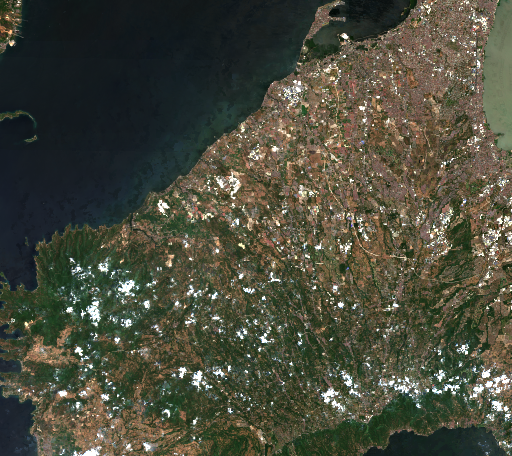
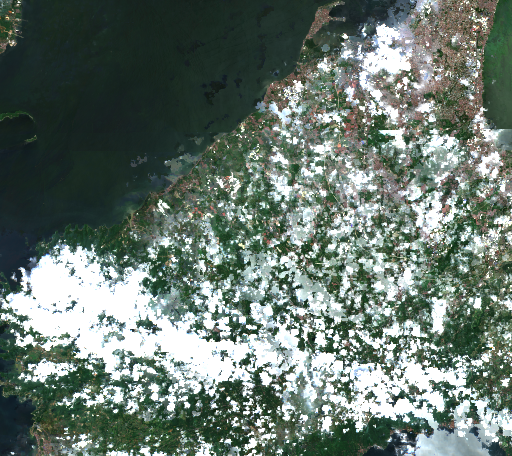
dataset extraction

diff --git a/backend/export_images.py b/backend/export_images.py
@@ -1,0 +1,43 @@
+import os
+import numpy as np
+from PIL import Image
+
+def convert_npy_to_png(patches_dir="data/cvip_output/patches", output_dir="data/cvip_output/patches_png"):
+    if not os.path.exists(patches_dir):
+        print(f"Error: The directory {patches_dir} does not exist.")
+        print("Please run `python gee_extraction.py` first to generate the dataset patches.")
+        return
+
+    os.makedirs(output_dir, exist_ok=True)
+    
+    npy_files = [f for f in os.listdir(patches_dir) if f.endswith(".npy")]
+    if not npy_files:
+        print(f"No .npy files found in {patches_dir}.")
+        print("Please run `python gee_extraction.py` first to generate the dataset patches.")
+        return
+
+    print(f"Found {len(npy_files)} patches. Converting to PNG...")
+    
+    for f in npy_files:
+        npy_path = os.path.join(patches_dir, f)
+        patch = np.load(npy_path)
+        
+        # patch has shape (64, 64, 4) with bands [Blue, Green, Red, NIR]
+        # Sentinel-2 raw reflectance is typically 0-10000
+        # Extract RGB (indices 2, 1, 0)
+        rgb_patch = patch[:, :, 2::-1]
+        
+        # Scale for visualization (clipping at 0.3 reflectance for brightness)
+        # The values are already scaled to roughly 0-1 range by GEE collection properties
+        rgb_scaled = np.clip(rgb_patch / 0.3, 0, 1) * 255.0
+        
+        img = Image.fromarray(rgb_scaled.astype(np.uint8))
+        
+        png_filename = f.replace(".npy", ".png")
+        png_path = os.path.join(output_dir, png_filename)
+        img.save(png_path)
+        
+    print(f"Success! {len(npy_files)} images saved to {output_dir}")
+
+if __name__ == "__main__":
+    convert_npy_to_png()

diff --git a/backend/download_all_data.py b/backend/download_all_data.py
@@ -1,0 +1,44 @@
+import os
+from datetime import datetime, timedelta
+from gee_extraction import run_cvip_pipeline
+
+def run_mass_download():
+    print("============================================================")
+    print("  MASS DATASET DOWNLOAD (Past 24 Months)")
+    print("============================================================")
+    
+    import gee_extraction
+    
+    current_date = datetime.now()
+    
+    for i in range(24):
+        target_date = current_date - timedelta(days=30 * i)
+        
+        # Override the current time the script "thinks" it is
+        class MockDatetime(datetime):
+            @classmethod
+            def now(cls, tz=None):
+                return target_date
+        
+        gee_extraction.datetime = MockDatetime
+        
+        folder_name = target_date.strftime('%Y_%m')
+        
+        print(f"\n[Extraction {i+1}/24] Pulling data for {target_date.strftime('%B %Y')}...")
+        gee_extraction.run_cvip_pipeline(
+            days_window=30,
+            patch_size=64,
+            output_dir=f'data/cvip_output/{folder_name}'
+        )
+        
+        # Also convert them to PNG
+        from export_images import convert_npy_to_png
+        convert_npy_to_png(
+            patches_dir=f'data/cvip_output/{folder_name}/patches',
+            output_dir=f'data/cvip_output/{folder_name}/patches_png'
+        )
+        
+    print("\nAll 24 months downloaded successfully!")
+
+if __name__ == "__main__":
+    run_mass_download()

diff --git a/backend/preprocessing_utils.py b/backend/preprocessing_utils.py
@@ -205,9 +205,9 @@ def extract_and_save_patches(ee_image, cavite_geometry, patch_size=64,
     print(f"\n[Spatial Patching] Extracting {patch_size}x{patch_size} patches...")
 
     # Sample the entire bounded region as a pixel rectangle from GEE
-    # defaultValue=0 fills any masked (cloud/boundary) pixels with 0
     pixel_data = (
         ee_image
+        .reproject(crs='EPSG:4326', scale=120)
         .sampleRectangle(region=cavite_geometry, defaultValue=0)
         .getInfo()
     )
